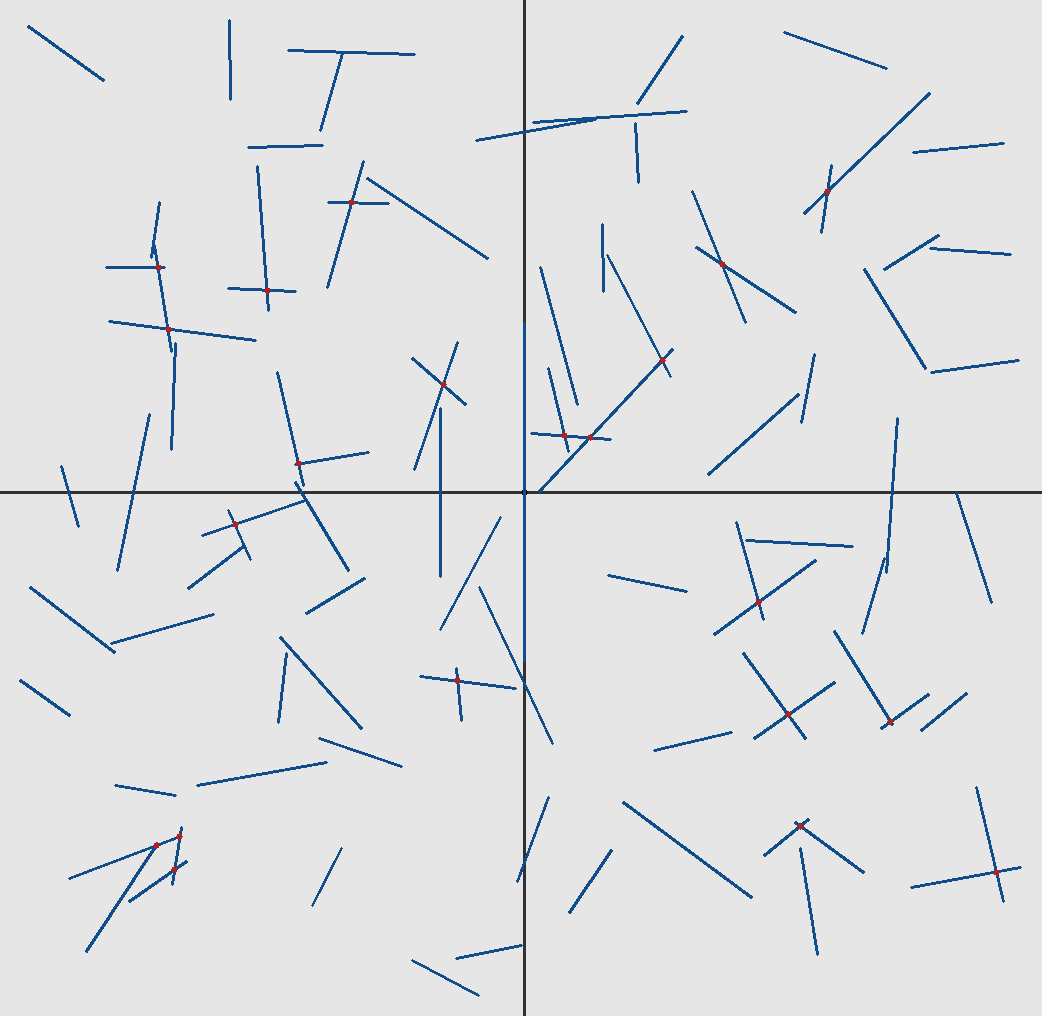
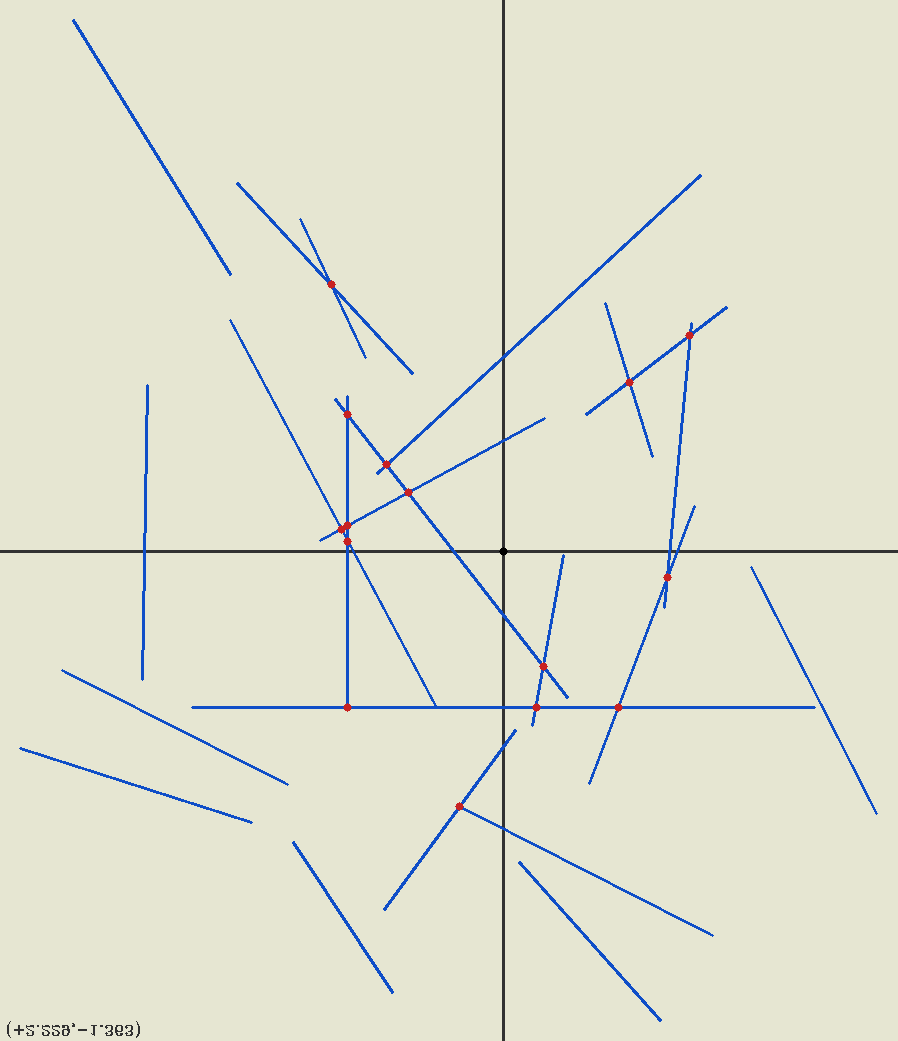
ui update

diff --git a/main.cpp b/main.cpp
@@ -216,14 +216,13 @@ std::vector<GeoChain::Euclidean::Point> line_intersection_traversal(std::vector<
 	return intersection;
 }
 
-void sweepline_test(float expand, int repeat_experiments) {
+void sweepline_test(float range, float expand, int repeat_experiments) {
 	using namespace GeoChain;
 	using namespace Algorithms;
 	using namespace Euclidean;
 
 	std::vector<Segment> segments;
 	srand((unsigned)time(NULL));
-	float range = 5.0;
 	float unit = 1.0;
 	float thresh = 0.3;
 	double rand_unit_;
@@ -250,8 +249,8 @@ void sweepline_test(float expand, int repeat_experiments) {
 		}
 	}
 
-	Point pt_1(EUC2D, 0, -2);
-	Point pt_2(EUC2D, 0, 2);
+	Point pt_1(EUC2D, -2, 1);
+	Point pt_2(EUC2D, 2, 1);
 	segments.push_back(Segment(EUC2D, DESC, pt_1, pt_2));
 	attendents.push_back(pt_1);
 	attendents.push_back(pt_2);
@@ -283,7 +282,7 @@ void sweepline_test(float expand, int repeat_experiments) {
 	LOG(INFO) << "[#] sweepline intersections find: " << counter;
 	LOG(INFO) << std::setprecision(g_GlobalVars.visualize_precision)
 						<< "[%] intersections/segments: " << float(counter) / segments.size() * 100 << "%";
-	visual.Visualize("Sweepline", "Sweepline.png");
+	visual.Visualize("Sweepline", "Topics/Line Segment Intersection/Sweepline.png");
 
 	// PointSegmentAffiliation root_event(EUC2D, segments.size());
 	// Segment root_status(EUC2D);
@@ -308,7 +307,7 @@ void sweepline_test(float expand, int repeat_experiments) {
 	LOG(INFO) << "[#] traversal intersections find: " << intersection.size();
 	LOG(INFO) << std::setprecision(g_GlobalVars.visualize_precision)
 						<< "[%] intersections/segments: " << float(counter) / segments.size() * 100 << "%";
-	// visual_traverse.Visualize("Traverse");
+	visual_traverse.Visualize("Traverse");
 
 	cv::destroyAllWindows();
 }
@@ -329,9 +328,11 @@ int main(int argc, char **argv) {
 	// visualizer_test();
 	// avltree_test();
 
-	for (float exp_ = 2.0; exp_ < 2.09; exp_ += 0.1) {
-		for (int expr_ = 0; expr_ < 1; expr_ += 1) {
-			sweepline_test(exp_, 10);	// atof(argv[1]), atoi(argv[2])
-		}
-	}
+	sweepline_test(2.0, 3.0, 1);
+
+	// for (float exp_ = 1.2; exp_ < 4.5; exp_ += 0.1) {
+	// 	for (int expr_ = 0; expr_ < 5; expr_ += 1) {
+	// 		sweepline_test(10.0, exp_, 10);	// atof(argv[1]), atoi(argv[2])
+	// 	}
+	// }
 }

diff --git a/Topics/Line Segment Intersection/PlaneSweepAlgorithm.h b/Topics/Line Segment Intersection/PlaneSweepAlgorithm.h
@@ -241,7 +241,8 @@ class PlaneSweeper {
 				LOG(ERROR) << "please make sure the dimensions match as well as segments status NOT ONLY INIT";
 				return;
 			}
-			kWellOrder this_order_ = PointCoordSequence(&(s.terminal_vertex_1_), &(s.terminal_vertex_2_));
+			kWellOrder this_order_ =
+					PointCoordSequence(&(s.terminal_vertex_1_), &(s.terminal_vertex_2_), g_GlobalVars.convention_epsilon);
 			Point *this_upper_, *this_lower_;
 			if (this_order_ > 0) {
 				// including points superposition
@@ -336,8 +337,10 @@ class PlaneSweeper {
 			// starting cross to sweeper
 			if (PointInSegment(&(this->SweeperState), starting->geometric_element_)) {
 				// cross the sweeper
-				if (PointCoordSequence(&SweeperState, &(starting->geometric_element_->terminal_vertex_1_)) != EQN &&
-						PointCoordSequence(&SweeperState, &(starting->geometric_element_->terminal_vertex_2_)) != EQN) {
+				if (PointCoordSequence(&SweeperState, &(starting->geometric_element_->terminal_vertex_1_),
+															 g_GlobalVars.convention_epsilon) != EQN &&
+						PointCoordSequence(&SweeperState, &(starting->geometric_element_->terminal_vertex_2_),
+															 g_GlobalVars.convention_epsilon) != EQN) {
 					// sweeper is not the lower of starting
 					this->event_state_->geometric_element_->m_segs_.push_back(starting);
 					this->event_state_->geometric_element_->segments_.push_back(starting);

diff --git a/Visualizers/Visualizer2D.h b/Visualizers/Visualizer2D.h
@@ -9,12 +9,12 @@ namespace Euclidean {
 
 #define COLOR_WHITE cv::Scalar(255, 255, 255)
 #define COLOR_BLACK cv::Scalar(0, 0, 0)
-#define COLOR_RED cv::Scalar(34, 34, 178)
-#define COLOR_BLUE cv::Scalar(139, 78, 16)
-#define COLOR_YELLOW cv::Scalar(205, 250, 255)
+#define COLOR_RED cv::Scalar(34, 34, 200)
+#define COLOR_BLUE cv::Scalar(200, 78, 16)
+#define COLOR_YELLOW cv::Scalar(180, 255, 255)
 #define COLOR_GREEN cv::Scalar(193, 255, 193)
 
-#define COLOR_SPACE cv::Scalar(230, 230, 230)
+#define COLOR_SPACE cv::Scalar(210, 230, 230)
 #define COLOR_NOTATION cv::Scalar(50, 50, 50)
 
 static void MouseLocator(int event, int x, int y, int flag, void *param) {
@@ -205,7 +205,9 @@ class Visualizer2D {
 			cv::imshow(window_name, visual_);
 		}
 		if (save_name != "") {
-			cv::imwrite(save_name, this->canvas_);
+			cv::Mat flipped;
+			cv::flip(visual_, flipped, 0);
+			cv::imwrite(save_name, flipped);
 			cv::destroyWindow(window_name);
 		}
 	};

diff --git a/Topics/Line Segment Intersection/ReadMe.md b/Topics/Line Segment Intersection/ReadMe.md
@@ -3,11 +3,10 @@
 ## Time Cost Experiments
 
 <div align=center>
-<img src="https://github.com/ChenZhouUC/GeoChain/blob/master/Topics/Line%20Segment%20Intersection/analysis_1.png" alt="sweepline_anal1" width="1000" height="483"/>
-<img src="https://github.com/ChenZhouUC/GeoChain/blob/master/Topics/Line%20Segment%20Intersection/analysis_2.png" alt="sweepline_anal2" width="1000" height="373"/>
+<img src="https://github.com/ChenZhouUC/GeoChain/blob/master/Topics/Line%20Segment%20Intersection/analysis.png" alt="sweepline_anal1" width="1000" height="565"/>
 </div>
 
-The above plots showed that the comparison of Plane Sweep Algorithm vs Trivial Traversal Algorithm. We can easily find that the time cost by Plane Sweep Algorithm is especially sensitive to #intersections/#segments.
+The above plot showed that the comparison of Plane Sweep Algorithm vs Trivial Traversal Algorithm. We can easily find that the time cost by Plane Sweep Algorithm is especially sensitive to #intersections/#segments.
 
 Only when #intersections/#segments is less than 1 or so could the Plane Sweep Algorithm be an optimal choice. That is to say, for certain problems where segments tend to be far away from each other, Plane Sweep Algrithm should be a better way to find out all the intersections. Otherwise one may use Trivial Traversal Algorithm instead, since it costs less time and claims less space.
 
